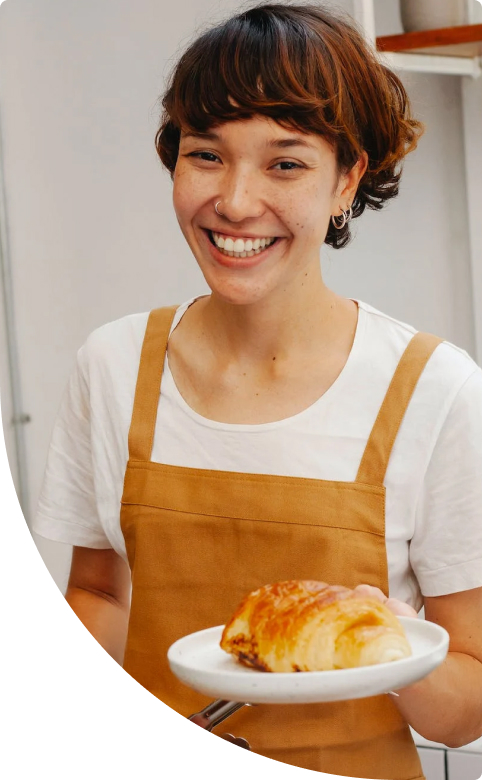
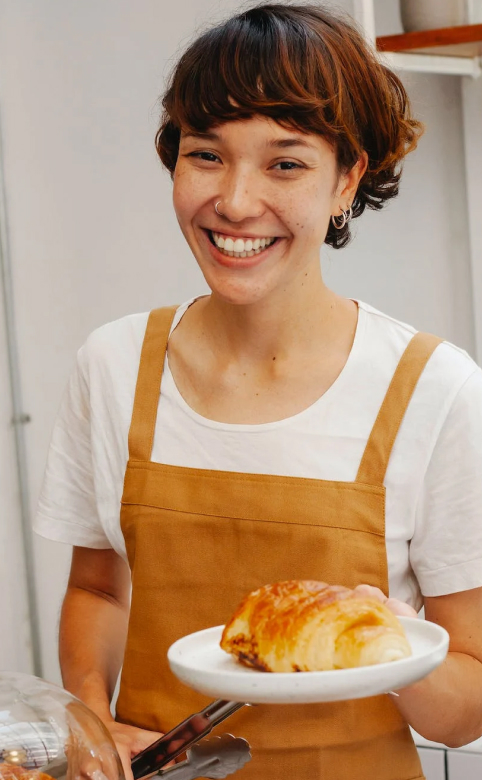
Work with background

Changed region(s): [[0.0, 0.5231, 0.778, 1.0], [0.9959, 0.9846, 1.0, 1.0], [0.9959, 0.0, 1.0, 0.0308]]

diff --git a/css/style.css b/css/style.css
@@ -93,6 +93,7 @@ a, a:hover {
 
 body {
 	color: var(--primary-dark);
+	background: var(--primary-light);
 	font-family: 'Poppins', sans-serif;
 	font-size: 18px;
 	font-weight: 400;
@@ -274,13 +275,27 @@ body {
 .baker-image {
 	display: block;
 	max-height: 470px;
+	border-radius: 400px 400px 0 0;
 }
 
 /* Bakers section */
 
-.chefs-span {
+.bakers-section-title span {
 	display: block;
+}
 
+.bakers-section-title::before {
+	content: '';
+	display: block;
+	width: 352px;
+	border-bottom: 2px solid var(--secondary-light);
+}
+
+.bakers-section-title::after {
+	content: '';
+	display: block;
+	width: 352px;
+	border-bottom: 2px solid var(--secondary-light);
 }
 
 .bakers-list {
@@ -298,6 +313,8 @@ body {
 
 .bakers-image {
 	max-width : 210px;
+	border-radius: 4px 4px 4px 200px;
+	box-shadow: -16px 16px 0 0 var(--primary-light), -16px 16px 0 2px var(--secondary-dark);
 }
 
 .bakers-title {
@@ -327,11 +344,11 @@ body {
 }
 
 .formats-item {
+	background-image: linear-gradient(180deg, rgba(49, 38, 26, 0) 55.21%, rgba(49, 38, 26, 0.71) 72.92%, #31261A 100%);;
 	flex-basis: 350px;
 	padding: 250px 24px 24px;
 	color: var(--primary-light);
 	font-size: 14px;
-	background-color: #31261A;
 	border-radius: 16px;
 }
 
@@ -384,11 +401,11 @@ body {
 }
 
 .footer {
+	background: url(../images/footer-bg.png);
 	background-color: var(--primary-dark);
-	/* background: url(../images/footer-bg.png);
 	background-repeat: no-repeat;
-	background-position: center top;
-	background-size: cover; */
+	background-position: center;
+	background-size: cover;
 }
 
 .footer-section {

diff --git a/index.html b/index.html
@@ -56,7 +56,7 @@
 			<img class="baker-image" src="./images/baker-with-bread.jpg" alt="Щасливий пекар везе хліб">
 		</section>
 		<section class="section" id="bakers">
-			<h2 class="section-title center">Наші найкращі <span class="brand-color-dark chefs-span">шеф -кухарі</span></h2>
+			<h2 class="section-title bakers-section-title center">Наші найкращі <span class="brand-color-dark">шеф -кухарі</span></h2>
 			<ul class="bakers-list">
 				<li class="bakers-item">
 					<img class="bakers-image" src="./images/Nastya.jpg" alt="Фото шеф-кухаря Насті">
